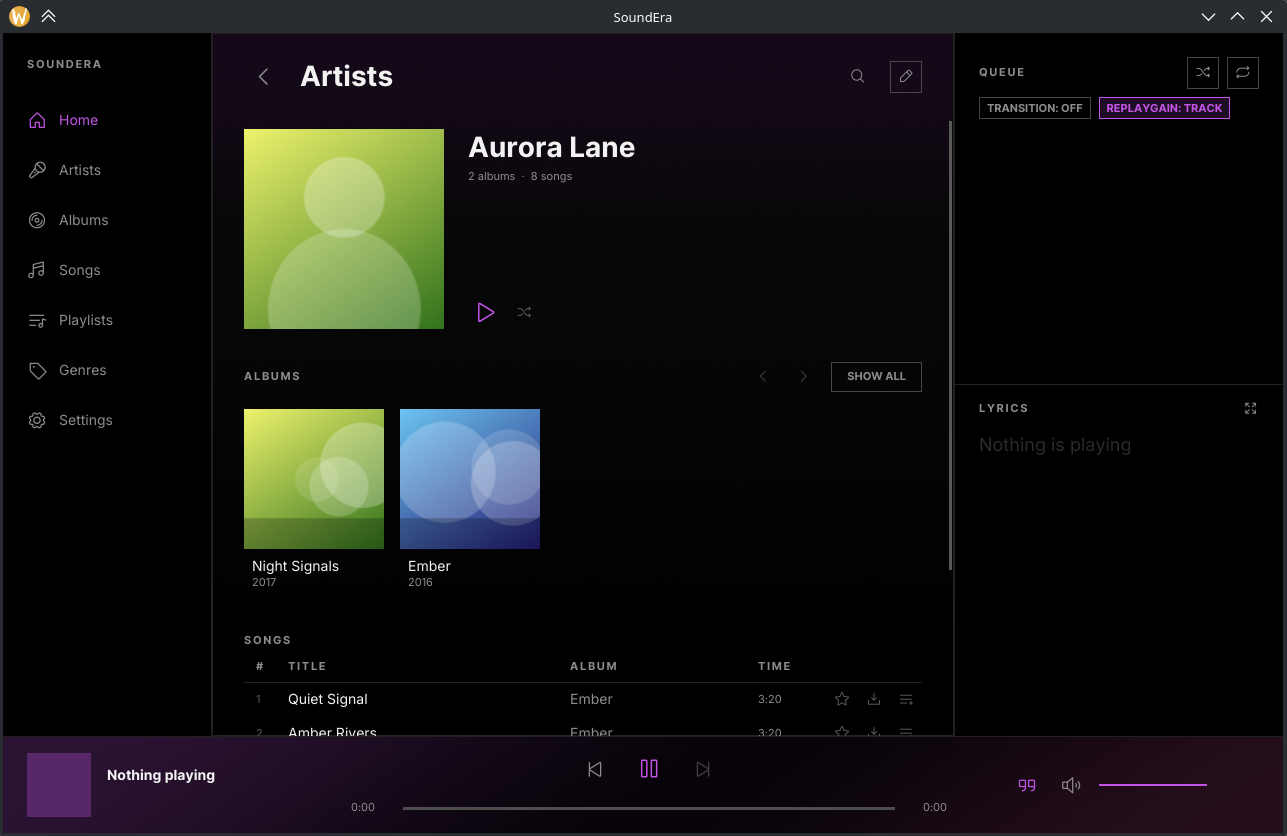
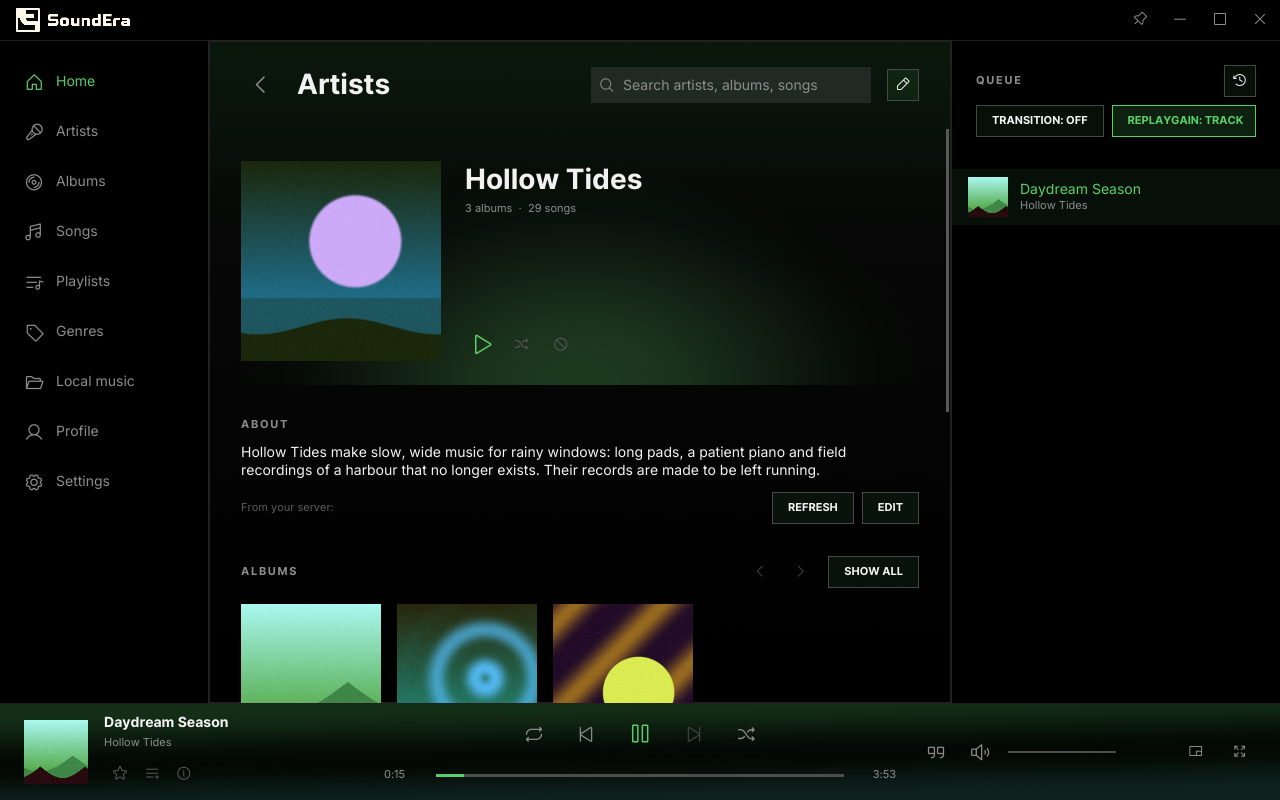
A fuller README with new screenshots of the current program

diff --git a/README.md b/README.md
@@ -1,31 +1,136 @@
-# SoundEra
+<h1 align="center">SoundEra</h1>
 
-A dark, fast and fully customisable desktop music player for your own music server.
-SoundEra connects to any OpenSubsonic-compatible server (such as Navidrome), streams or keeps your music offline, and puts the things you play most right on the front page.
+<p align="center">
+  <b>A desktop music player for your own music server, built around the music you actually play.</b><br>
+  Dark, fast, synced lyrics with karaoke, offline listening, and a window you can rebuild piece by piece.
+</p>
 
-![Home](screenshots/home.png)
+<p align="center">
+  <a href="../../releases/latest"><b>Download</b></a> ·
+  <a href="#what-makes-it-different">Features</a> ·
+  <a href="#first-start">First start</a> ·
+  <a href="#privacy-and-security">Privacy and security</a>
+</p>
 
-## Highlights
+![SoundEra Home: most played albums with a glow in the colour of the cover, one-click shuffles, the queue and the player bar](screenshots/home.png)
 
-- **Your server, your music.** Works with Navidrome and other OpenSubsonic servers. Browse artists, albums, songs, genres and playlists, search the whole library, star favourites and edit playlists.
-- **Home that learns what you play.** Most played albums and songs, playlists, artists, and one-click shuffles: all songs, favourites, or a random genre.
-- **Synced lyrics** that follow the song line by line, in the queue panel or full screen.
-- **Gapless playback** with optional crossfade and ReplayGain loudness levelling, with a volume boost when you need it.
-- **Offline when you want it.** Keep whole albums or single songs on your computer and play them without the server.
-- **Make it yours.** Edit Mode lets you move, resize, pin and remove every panel; the layout, the shortcuts and the Home sections are all rearrangeable.
-- **Colour from the cover.** The accent colour and the glow follow the artwork of the song that is playing.
-- **Keyboard first.** Every shortcut can be changed, several keys can do the same thing, and a clash is shown to you instead of silently overwritten.
-- **Private by design.** No accounts, no tracking. Your password stays in your system's keyring, and the program only talks to your server and, to look for updates, to this page.
+SoundEra connects to any **OpenSubsonic-compatible server** (Navidrome, for example) and turns it into a player that
+feels like one piece: the colour of the song that is playing runs through the whole window, the lyrics follow the
+singer, and every part of the layout is yours to move, resize or throw away. It is for people who keep their own
+music and want a player that is as careful as their library.
 
-## Screenshots
+*Every picture on this page comes from SoundEra itself, running against a made-up demo library (invented artists,
+generated covers, synthesised audio). No real music or artwork is shown.*
 
-| | |
-|---|---|
-| ![Album](screenshots/album.png) | ![Artist](screenshots/artist.png) |
-| ![Playlists](screenshots/playlists.png) | ![Playlist](screenshots/playlist.png) |
-| ![Now playing with lyrics](screenshots/player.png) | ![Settings](screenshots/settings.png) |
+## What makes it different
 
-The pictures above are placeholders from a demo library.
+### Your window, your layout
+
+Every part of SoundEra is a **widget**: Navigation, Page, Queue, Lyrics, Player bar, Visualizer, Equalizer, Online
+activity. In **Edit Mode** you drag them where you want them, resize them, pin them, stack two in one column and delete
+the ones you don't need. While you drag, a single box shows exactly where the widget will land, and everything
+slides smoothly into place. Undo and redo cover every change, and you can keep several layouts.
+
+![Queue and lyrics stacked in one column, with the Online activity widget beside them](screenshots/widgets.png)
+
+### Lyrics that follow the singer
+
+Synced lyrics scroll with the song, line by line. Switch on **karaoke** and the line being sung fills with the
+accent colour as it is sung, word by word when the lyrics carry word times. For lyrics that only have line times,
+**SoundEra Karaoke** listens to the song itself and estimates where the voice is, so the highlight does not race
+ahead during an instrumental break. Click any line to jump there. Open the lyrics full screen, with the queue beside
+them if you like, or in a small always-on-top window that shrinks down to just the song and its buttons.
+
+![Full screen lyrics with the current line in the accent colour](screenshots/lyrics-fullscreen.png)
+
+Lyrics your server doesn't have can be fetched from [LRCLIB](https://lrclib.net) (off until you switch it on), and
+you can **search inside lyrics**: find the song by a line you remember, and a click plays it from that line.
+
+### Home that learns what you play
+
+Most played albums and songs, recently added, your playlists and artists, and one-click shuffles for *all songs*,
+*favourites* or a *random genre*. Rearrange, pin or hide every Home section. Songs, albums and whole artists you
+never want suggested can be **avoided**: they stay in your library but never show up on Home or in a shuffle.
+
+### Made for big libraries
+
+![Albums as a grid of covers, with play, shuffle, keep offline and pin on every tile](screenshots/albums.png)
+
+- Search that works in every language and script: accents, case, Arabic marks, Hebrew points, Chinese, Japanese and
+  Thai are all handled, and results are ranked, not just listed.
+- **Drag a song onto a playlist** from any list, the queue or the player bar. Drop it on an empty part of Home to
+  start a new playlist with it. Playlists get a mosaic cover made from their songs, or a picture you choose.
+![Playlists with generated mosaic covers](screenshots/playlists.png)
+
+- Artists with several credits link to every artist separately. Back, forward and Esc take you through the pages you
+  visited, with scroll position and search restored.
+- Rate songs from one to five stars, star favourites, see the full song info (format, bit rate, plays here, which
+  playlists hold it).
+
+![An album page with its songs](screenshots/album.png)
+
+![An artist page with a short biography and the albums](screenshots/artist.png)
+
+### Offline when you want it
+
+Keep a whole album or a single song on your computer and play it without the server. Pick a folder
+of **local music** and play files that were never on a server at all. A cache with a size limit that you choose looks
+after everything else, and what you keep is never thrown out.
+
+### Sound
+
+- **Gapless playback**, optional crossfade and **ReplayGain** loudness levelling.
+- A ten-band **equalizer** with profiles (Flat, Bass boost, Vocal, Rock and more, and your own), and a **volume boost**
+  for quiet recordings. The engine lowers the level for you so loud songs don't clip.
+- An audio **visualizer** widget (bars or a steady wave) that draws what is really playing.
+- If the headphones are unplugged the music pauses, and SoundEra tells you. It picks up where it left off on the
+  next device.
+
+### Profile and online activity
+
+![The profile page: most played artists and genres as ten-block graphs, and what is playing now](screenshots/profile.png)
+
+Your **Profile** shows your plays, your liked songs and your most played artists and genres. If you switch on
+**Online activity** (on by default, and one switch to turn it off), other people on your server can see what you are
+listening to, and you can see what they play and play along. It uses only what a stock OpenSubsonic server already
+offers, so nothing new has to be installed on the server.
+
+### In your language
+
+English, Türkçe, Deutsch, Español, Français, Português, Русский, العربية and Azərbaycanca are translated through the
+whole program, and more Turkic languages are on the way (Kazakh, Uzbek, Turkmen, Kyrgyz, Tatar, Uyghur and others are
+partly filled in). Right-to-left languages mirror the whole window. The language list shows how much of the program
+each language covers.
+
+![Settings with the language list showing how complete each translation is](screenshots/settings.png)
+
+### The small things
+
+- Colour from the cover, with a slow glow behind it that you can turn off.
+- The window has its **own title bar**, with a "keep on top" pin, and works with the system tray and, on Windows, the
+  taskbar preview buttons and media keys.
+- Zoom from 60% to 200%, with Ctrl and plus / minus, and windows bigger than Full HD grow by themselves.
+- **Every shortcut can be changed**, several keys can do the same thing, and a clash is shown instead of silently
+  overwritten.
+- It works **without a server** too: choose "I'll add a server later" and play your local music.
+
+## Privacy and security
+
+SoundEra is made to be quiet.
+
+- **No accounts, no tracking, no analytics.** The program talks to your server, and nothing else unless you switch it
+  on. Each online source (biographies from Wikipedia, artist pictures from TheAudioDB, lyrics from LRCLIB) has its own
+  switch in **Settings > Online**, and the row says in one line what is sent.
+- **Your password stays in the system keyring** (Secret Service, KDE Wallet or Windows Credential Manager), never in a
+  settings file. Requests use a token, not the password, and web addresses and tokens are removed from the error logs
+  you can copy.
+- **Signed updates.** Every release file is signed with [minisign](https://jedisct1.github.io/minisign/), and
+  SoundEra installs only an update whose signature is valid for that exact version. You can check a download yourself
+  with the public key in [SECURITY.md](SECURITY.md).
+- Data from a server or a file is treated as hostile: pictures and downloads are size-limited and file names are
+  cleaned.
+
+Found a weakness? Please read the [security policy](SECURITY.md) and report it privately.
 
 ## Download
 
@@ -33,26 +138,31 @@ Get the newest version from the [Releases](../../releases/latest) page.
 
 | System | File | How |
 |---|---|---|
-| Linux (x86_64) | `SoundEra-<version>-x86_64.AppImage` | Make it executable (`chmod +x SoundEra-*.AppImage`) and run it. If your system lacks FUSE, run it with `--appimage-extract-and-run`. |
+| Linux (x86_64) | `SoundEra-<version>-x86_64.AppImage` | Make it executable (`chmod +x SoundEra-*.AppImage`) and run it. Without FUSE, run it with `--appimage-extract-and-run`. |
+| Linux (x86_64) | `SoundEra-<version>-linux-x86_64.tar.gz` | Unpack it and run `install.sh` (for your user, in `~/.local`) or `install.sh --system`. `uninstall.sh` removes it. |
 | Windows 10 / 11 (64-bit) | `SoundEra-<version>-Setup.exe` | Run the installer. It installs for your user only and needs no administrator rights. |
 
-The Windows version is new and has had less testing than the Linux one; media-key integration on Windows is not there yet.
+The Windows version has had less testing than the Linux one.
 
 ## First start
 
-1. Open **Settings > Server** and type your server address, user name and password.
-2. Press **Connect**, then **Sync library** on Home.
-3. Press **Edit Mode** (the pencil) to arrange the window the way you like it.
+1. Open SoundEra and type your server address, user name and password, then press **Connect**. (No server yet? Press
+   **I'll add a server later** and choose a music folder under **Local music**.)
+2. Under **Make it yours** pick your language, zoom and the options you like.
+3. Press **Sync library** on Home, then press the pencil (**Edit Mode**) to arrange the window your way.
 
-An address that starts with `http://` instead of `https://` is not encrypted, and SoundEra warns you when it is used outside your own network.
+An address that starts with `http://` instead of `https://` is not encrypted, and SoundEra warns you when it is used
+outside your own network.
 
 ## Updates
 
-SoundEra looks for a new version when it starts (this can be switched off under **Settings > About**). An update is installed only when you press **Update**, and only after its digital signature has been checked, so a changed or swapped file is refused.
+SoundEra looks for a new version when it starts (you can change this under **Settings > Updates**, where the full
+changelog is too). An update is downloaded and installed only after its signature has been checked, and you decide
+when to restart.
 
 ## What is in this repository
 
-Only the finished programs and their signatures. The source code is not published.
+Only the finished programs and their signatures, plus this page. The source code is not published.
 
 ## Licence
 
